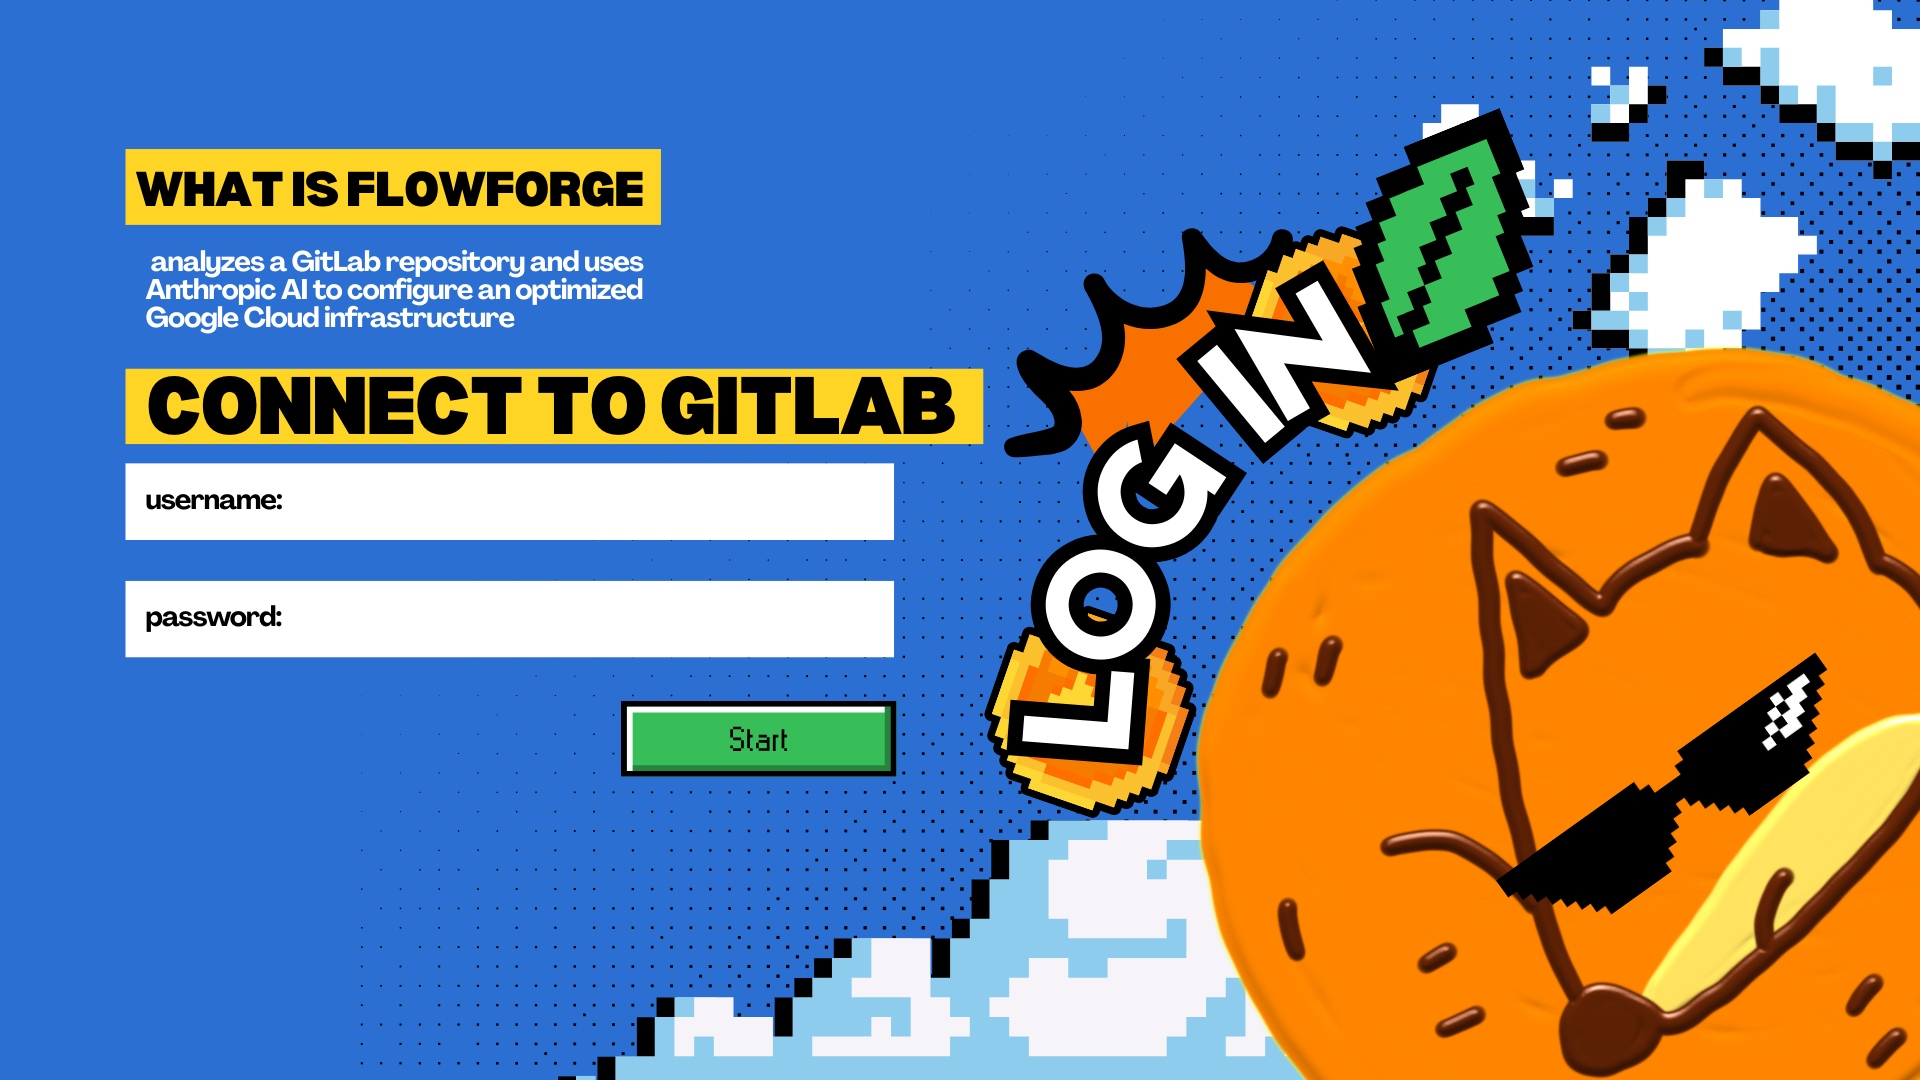
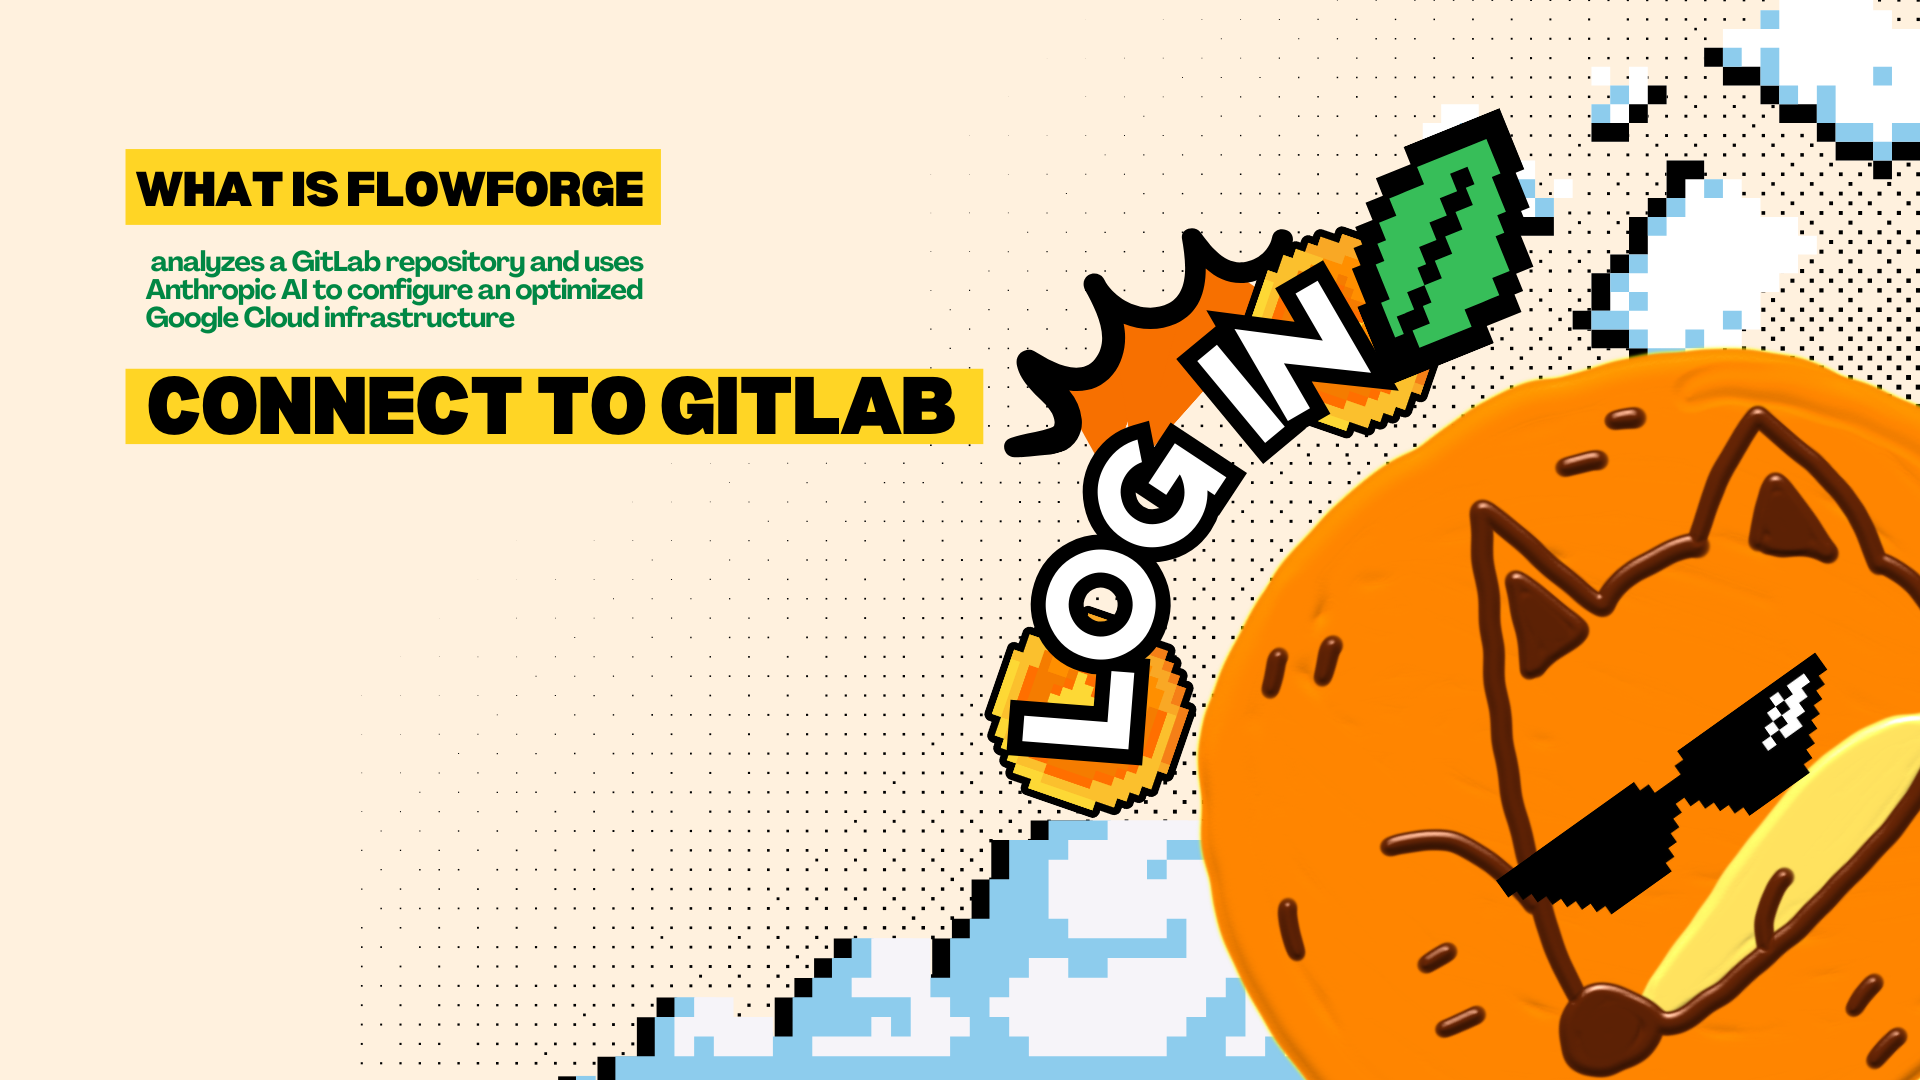
fine tuning start and login page

diff --git a/frontend/src/Login.tsx b/frontend/src/Login.tsx
@@ -23,8 +23,7 @@ function StartButton({ onClick }: { onClick: () => void }) {
           setFlash(false);
         }
       }, 300);
-
-    }, 3000); // change to 3 seconds for testing
+    }, 3000);
 
     return () => clearTimeout(timer);
   }, []);
@@ -43,7 +42,8 @@ function StartButton({ onClick }: { onClick: () => void }) {
         transform: "translateX(-50%)",
         cursor: "pointer",
         opacity: flash ? 0.3 : 1,
-        transition: "opacity 0.2s"
+        transition: "opacity 0.2s",
+        zIndex: 5
       }}
       onClick={onClick}
     />
@@ -51,34 +51,154 @@ function StartButton({ onClick }: { onClick: () => void }) {
 }
 
 export default function Login() {
-
-  const [screen, setScreen] = useState("start");
+  const [username, setUsername] = useState("");
+  const [password, setPassword] = useState("");
+  const [screen, setScreen] = useState<"start" | "login" | "repo">("start");
 
   return (
     <div style={{ width: "100vw", height: "100vh", position: "relative" }}>
-
       {/* START SCREEN */}
       {screen === "start" && (
         <>
           <img
             src={startScreen}
             alt="Start"
-            style={{ width: "100%", height: "100%", objectFit: "cover" }}
+            style={{
+              width: "100%",
+              height: "100%",
+              objectFit: "cover",
+              position: "absolute",
+              zIndex: 0
+            }}
           />
-
           <StartButton onClick={() => setScreen("login")} />
         </>
       )}
 
       {/* LOGIN SCREEN */}
       {screen === "login" && (
-        <div onClick={() => setScreen("repo")}>
+        <>
+          <style>
+            {`
+              .ffLoginInput {
+                font-family: Agrandir, system-ui, -apple-system, "Segoe UI", Roboto, Arial, sans-serif;
+                font-weight: 700;
+                font-size: 21px;
+              }
+              .ffLoginInput::placeholder {
+                font-family: Agrandir, system-ui, -apple-system, "Segoe UI", Roboto, Arial, sans-serif;
+                font-weight: 700;
+                font-size: 21px;
+                color: #000;
+                opacity: 1;
+              }
+            `}
+          </style>
+          {/* BACKGROUND IMAGE */}
           <img
             src={loginScreen}
             alt="Login"
-            style={{ width: "100%", height: "100%", objectFit: "cover", cursor:"pointer" }}
+            style={{
+              width: "100%",
+              height: "100%",
+              objectFit: "cover",
+              position: "absolute",
+              top: 0,
+              left: 0,
+              zIndex: 0
+            }}
           />
-        </div>
+
+          {/* INPUTS LAYERED ON TOP, ALIGNED TO WHITE BOXES */}
+          <div
+            style={{
+              position: "absolute",
+              inset: 0,
+              zIndex: 10,
+            }}
+          >
+            <input
+              type="text"
+              placeholder="username"
+              value={username}
+              onChange={e => setUsername(e.target.value)}
+              className="ffLoginInput"
+              style={{
+                position: "absolute",
+                top: "43%",
+                left: "6.6%",
+                width: "44.5%",
+                height: "44px",
+                backgroundColor: "#ffffff",
+                border: "none",
+                outline: "none",
+                color: "#000",
+                fontSize: "21px",
+                fontFamily:
+                  'Agrandir, system-ui, -apple-system, "Segoe UI", Roboto, Arial, sans-serif',
+                fontWeight: 700,
+                padding: "0 12px",
+                boxSizing: "border-box"
+              }}
+            />
+            <input
+              type="password"
+              placeholder="password"
+              value={password}
+              onChange={e => setPassword(e.target.value)}
+              className="ffLoginInput"
+              style={{
+                position: "absolute",
+                top: "54.5%",
+                left: "6.6%",
+                width: "44.5%",
+                height: "44px",
+                backgroundColor: "#ffffff",
+                border: "none",
+                outline: "none",
+                color: "#000",
+                fontSize: "21px",
+                fontFamily:
+                  'Agrandir, system-ui, -apple-system, "Segoe UI", Roboto, Arial, sans-serif',
+                fontWeight: 700,
+                padding: "0 12px",
+                boxSizing: "border-box"
+              }}
+            />
+            <img
+              src={continueButton}
+              alt="Join"
+              role="button"
+              tabIndex={0}
+              onClick={() => {
+                if (username && password) {
+                  setScreen("repo");
+                } else {
+                  alert("Please enter username and password");
+                }
+              }}
+              onKeyDown={e => {
+                if (e.key === "Enter" || e.key === " ") {
+                  e.preventDefault();
+                  if (username && password) {
+                    setScreen("repo");
+                  } else {
+                    alert("Please enter username and password");
+                  }
+                }
+              }}
+              style={{
+                position: "absolute",
+                top: "66%",
+                left: "40%",
+                transform: "translateX(-50%)",
+                width: "200px",
+                cursor: "pointer",
+                userSelect: "none"
+              }}
+            />
+          </div>
+        </>
       )}
 
       {/* REPO LIST SCREEN */}
@@ -86,10 +206,15 @@ export default function Login() {
         <img
           src={repoList}
           alt="Repo List"
-          style={{ width: "100%", height: "100%", objectFit: "cover" }}
+          style={{
+            width: "100%",
+            height: "100%",
+            objectFit: "cover",
+            position: "absolute",
+            zIndex: 0
+          }}
         />
       )}
-
     </div>
   );
 }
